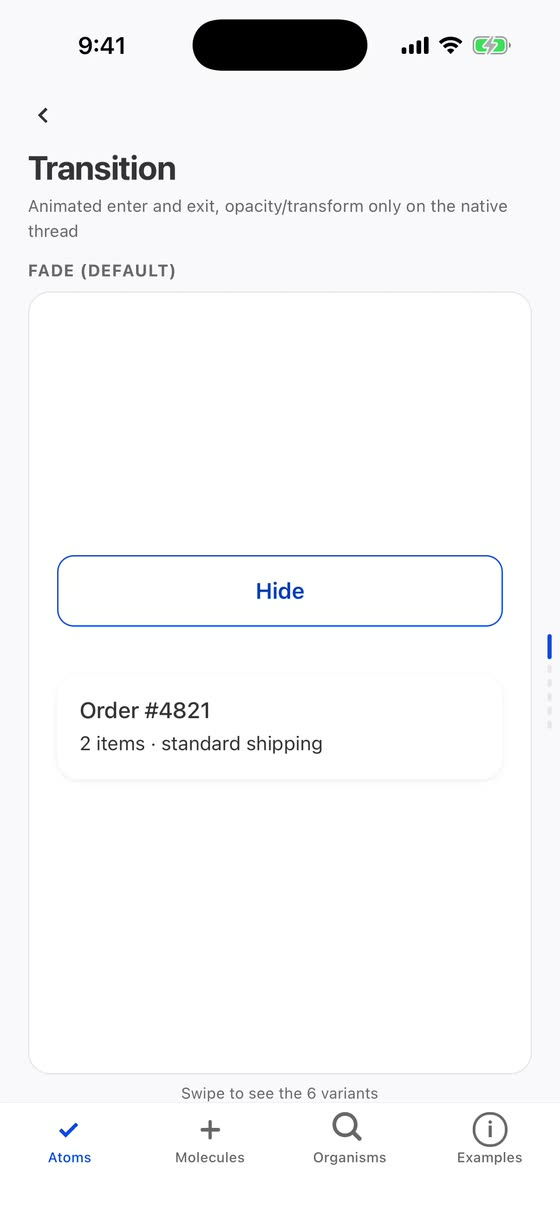
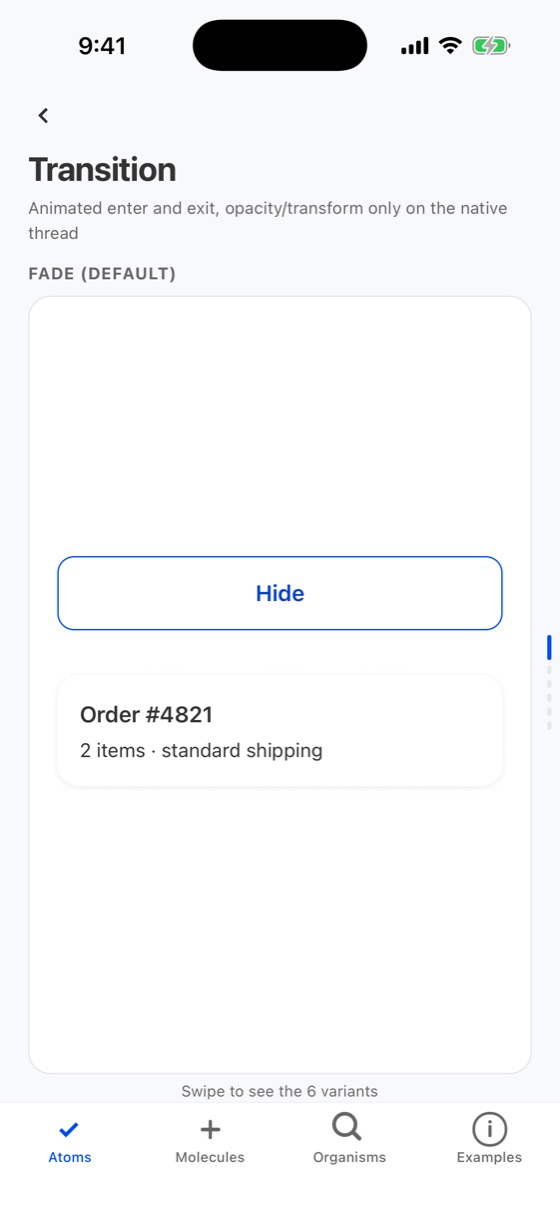
docs(transition): per-variant stills and changelog entries

diff --git a/src/data/changelog.ts b/src/data/changelog.ts
@@ -352,6 +352,19 @@ export const releases: Release[] = [
           ],
         },
         {
+          component: 'Transition',
+          items: [
+            {
+              en: 'Content that is hidden or on its way out leaves the accessibility tree and stops taking touches, so screen readers no longer read what is not on screen (e.g. `keepMounted` while hidden).',
+              es: 'El contenido oculto o que está saliendo sale del árbol de accesibilidad y deja de recibir toques, así los lectores de pantalla ya no leen lo que no está en pantalla (por ejemplo, con `keepMounted` mientras está oculto).',
+            },
+            {
+              en: 'Switching between light and dark no longer replays the enter animation or fires `onEntered` again.',
+              es: 'Cambiar entre claro y oscuro ya no repite la animación de entrada ni vuelve a disparar `onEntered`.',
+            },
+          ],
+        },
+        {
           component: 'Icons',
           page: '/components/icon-button',
           items: [
